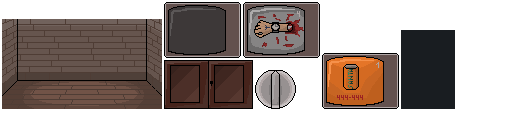
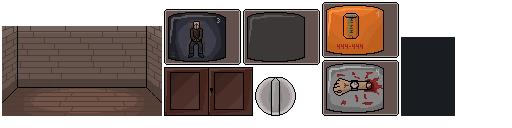
add button for change channels on tv

diff --git a/core/src/main/java/com/elevator_project/second_floor/Tv.java b/core/src/main/java/com/elevator_project/second_floor/Tv.java
@@ -1,10 +1,13 @@
 package com.elevator_project.second_floor;
 
+import com.badlogic.gdx.graphics.g2d.Sprite;
 import com.badlogic.gdx.graphics.g2d.TextureAtlas;
 import com.badlogic.gdx.scenes.scene2d.Group;
 import com.badlogic.gdx.scenes.scene2d.InputEvent;
 import com.badlogic.gdx.scenes.scene2d.ui.Image;
 import com.badlogic.gdx.scenes.scene2d.utils.ClickListener;
+import com.badlogic.gdx.scenes.scene2d.utils.SpriteDrawable;
+import com.badlogic.gdx.utils.Align;
 import com.elevator_project.game.GameManager;
 import com.elevator_project.game.ImageProcessing;
 import com.elevator_project.game.RoomPart;
@@ -17,6 +20,9 @@ public class Tv extends RoomPart {
     private final List<Image> elements;
 
     private Image tv;
+    private Image button;
+
+    private Sprite[] tvSprites;
 
     public Tv() {
         atlas = GameManager.getAtlasses().getSecondFloorAtlas();
@@ -34,8 +40,11 @@ public class Tv extends RoomPart {
         final float TV_RESIZE = 200f;
         final float TV_HORIZ = 3f;
         final float TV_VERT = 2.5f;
-
-        tv = new Image(atlas.createSprite("TV", 0));
+        tvSprites = new Sprite[7];
+        for (int i = 0; i < 7; i++) {
+            tvSprites[i] = atlas.createSprite("TV", i);
+        }
+        tv = new Image(tvSprites[1]);
         ImageProcessing.process(tv, TV_RESIZE, TV_HORIZ, TV_VERT);
 
         return tv;
@@ -55,12 +64,17 @@ public class Tv extends RoomPart {
         final float BUTTON_HORIZ = 1.55f;
         final float BUTTON_VERT = 1.4f;
 
-        Image button = new Image(atlas.createSprite("TV_Button"));
+        button = new Image(atlas.createSprite("TV_Button"));
         ImageProcessing.process(button, BUTTON_RESIZE, BUTTON_HORIZ, BUTTON_VERT);
+        button.setOrigin(Align.center);
 
         button.addListener(new ClickListener() {
             public void clicked(InputEvent event, float x, float y) {
-                button.setRotation(40f);
+                button.rotateBy(72);
+                GameManager.getGameState().setChannelIndex(
+                    (GameManager.getGameState().getChannelIndex() + 1) % 5
+                );
+                tv.setDrawable(new SpriteDrawable(tvSprites[GameManager.getGameState().getChannelIndex()]));
             }
         });
 
@@ -69,6 +83,9 @@ public class Tv extends RoomPart {
 
     @Override
     public Group initGroup() {
+        button.rotateBy((GameManager.getGameState().getChannelIndex() - 1)*72);
+        tv.setDrawable(new SpriteDrawable(tvSprites[GameManager.getGameState().getChannelIndex()]));
+
         for (Image element : elements) {
             mainGroup.addActor(element);
         }

diff --git a/core/src/main/java/com/elevator_project/game/SaveManager.java b/core/src/main/java/com/elevator_project/game/SaveManager.java
@@ -23,14 +23,18 @@ public class SaveManager {
     }
 
     public static void load (FileHandle load) {
-        if (GameManager.getGameState().isElevator()) {
-            GameManager.getElevatorManager().dispose();
-        } else {
-            GameManager.getFloor().dispose();
-        }
         Json json = new Json();
         String loadedData = load.readString();
-        GameManager.setGameState(json.fromJson(GameState.class, loadedData));
+        if (loadedData.isEmpty()) {
+            GameManager.setGameState(new GameState());
+        } else {
+            if (GameManager.getGameState().isElevator()) {
+                GameManager.getElevatorManager().dispose();
+            } else {
+                GameManager.getFloor().dispose();
+            }
+            GameManager.setGameState(json.fromJson(GameState.class, loadedData));
+        }
         if (GameManager.getGameState().isElevator()) {
             GameManager.getElevatorManager().render();
         } else {

diff --git a/core/src/main/java/com/elevator_project/game/GameState.java b/core/src/main/java/com/elevator_project/game/GameState.java
@@ -26,6 +26,9 @@ public class GameState {
 
     private String saveName;
 
+    private int channelIndex;
+    private boolean tvOn;
+
     public GameState () {
         elevator = true;
 
@@ -48,5 +51,8 @@ public class GameState {
         partIndex = 0;
 
         saveName = "autosave";
+
+        channelIndex = 1;
+        tvOn = false;
     }
 }
